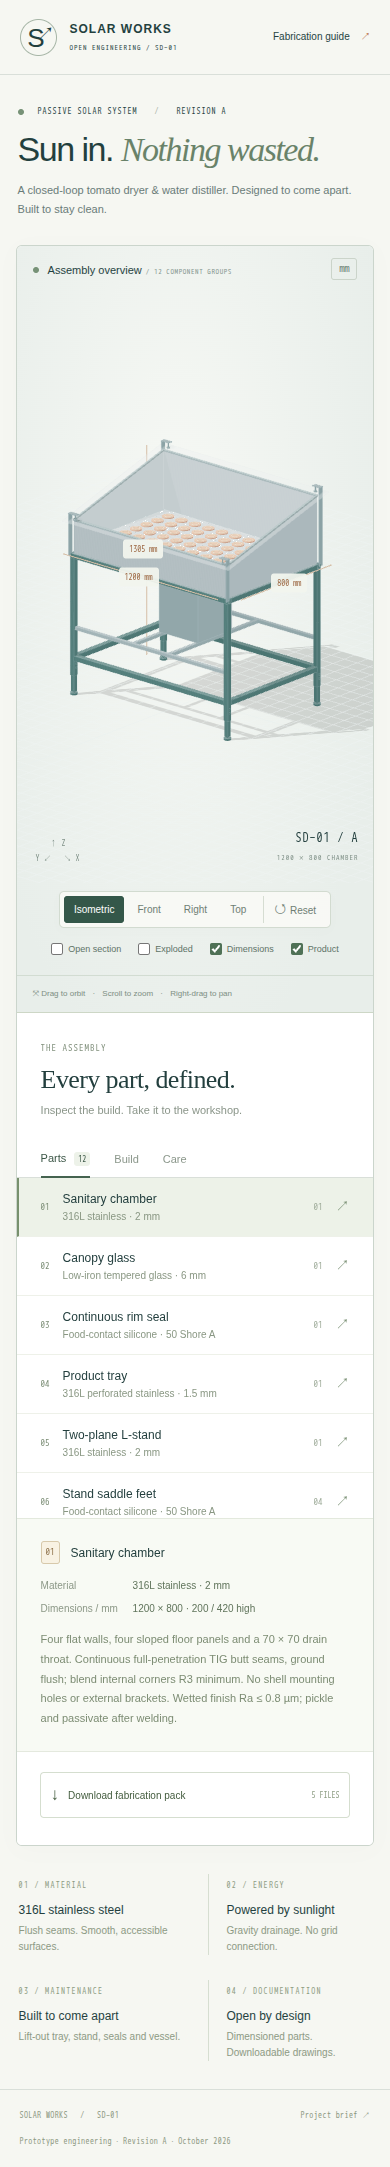
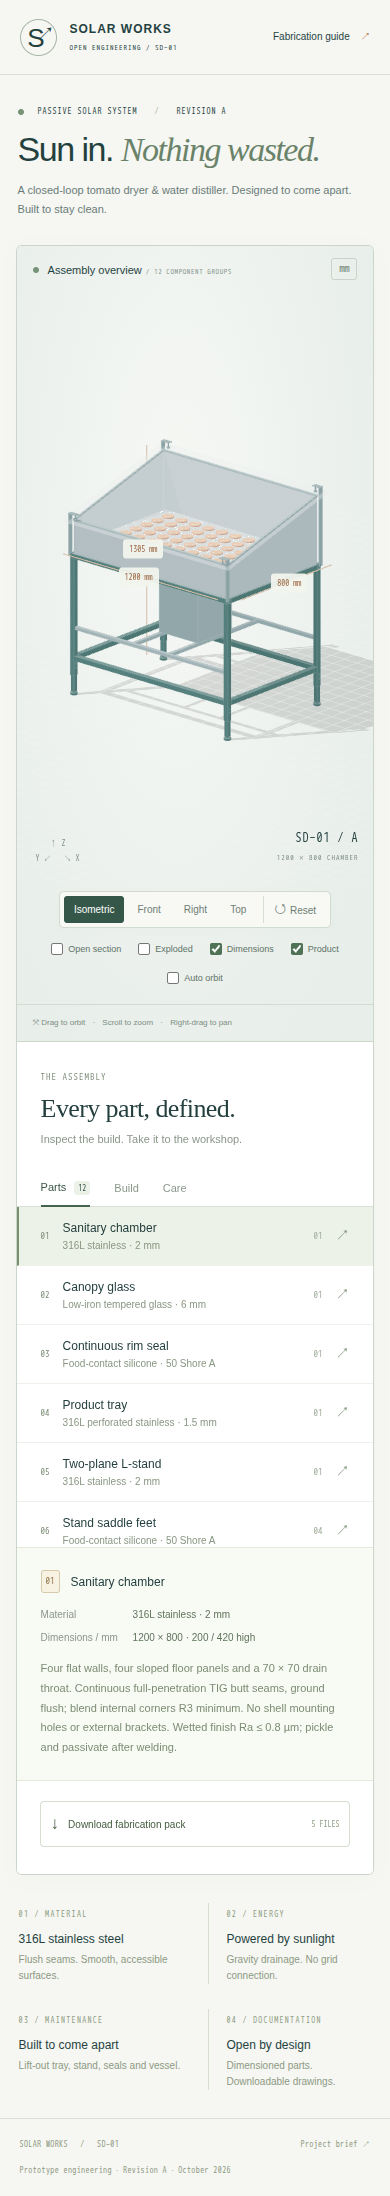
fix: retain showcase orbit and align fabrication details

diff --git a/assets/scene.js b/assets/scene.js
@@ -236,6 +236,7 @@ function createScene(host) {
   const controls = new T.OrbitControls(camera, renderer.domElement);
   controls.target.set(0, 700, 0);
   controls.enableDamping = true;
+  controls.autoRotateSpeed = 1;
   controls.minZoom = 0.45;
   controls.maxZoom = 5;
   controls.maxPolarAngle = Math.PI * 0.87;
@@ -440,6 +441,9 @@ export function createViewer(host, onSelect) {
     if (mode === 'dimensions') {
       showDimensions = value;
     }
+    if (mode === 'rotate') {
+      controls.autoRotate = value;
+    }
     if (mode === 'produce') {
       produce.visible = value;
     }
@@ -494,6 +498,7 @@ export function createViewer(host, onSelect) {
       section = false;
       setMode('dimensions', true);
       setMode('produce', true);
+      setMode('rotate', false);
       highlight.visible = false;
       view('iso');
     },

diff --git a/assets/app.js b/assets/app.js
@@ -112,7 +112,13 @@ function configureViewer() {
       trace('view', button.dataset.view);
     })
   );
-  for (const mode of ['section', 'explode', 'dimensions', 'produce']) {
+  for (const mode of [
+    'section',
+    'explode',
+    'dimensions',
+    'produce',
+    'rotate',
+  ]) {
     $(`#${mode}`).addEventListener('change', (event) => {
       viewer?.setMode(mode, event.target.checked);
       $('#view-title').textContent = $('#explode').checked
@@ -129,6 +135,7 @@ function configureViewer() {
     $('#explode').checked = false;
     $('#dimensions').checked = true;
     $('#produce').checked = true;
+    $('#rotate').checked = false;
     $('#view-title').textContent = 'Assembly overview';
     document
       .querySelectorAll('[data-view]')

diff --git a/tests/blueprint.test.js b/tests/blueprint.test.js
@@ -111,6 +111,13 @@ describe('shared assembly geometry and public artifact', () => {
         drain.position[1] - drain.length / 2 + 15
     ).toBe(true);
   });
+  it('fits all eight cage locking pins through the specified M8 drillings', () => {
+    const pins = assembly().filter(
+      (s) => s.part === '08' && s.type === 'tube' && s.length === 40
+    );
+    expect(pins.length).toBe(8);
+    expect(pins.every((p) => p.outer === 8 && p.outer < 8.5)).toBe(true);
+  });
   it('exports developed panels with the actual sloping edge lengths', () => {
     const floors = cutList().filter((c) => c.name.startsWith('Floor'));
     expect(floors.length).toBe(4);

diff --git a/assets/design.js b/assets/design.js
@@ -173,7 +173,7 @@ export const parts = [
     size: '300 × 300 shelf + 3 × 300 × 300 shields',
     group: 'cage',
     process:
-      'Shelf top Z430; removable 20 × 20 × 2 cage-only angle supports. Three detachable flat shields shade vessel from front and sides while leaving rear service access. Four M6 bolts per shield attach to cage; all penetrations outside chamber.',
+      'Shelf top Z430; 20 × 20 × 2 SHS bearers with removable cage-only brackets. Three detachable flat shields shade vessel from front and sides while leaving rear service access. Four M6 bolts per shield attach to cage; all penetrations outside chamber.',
   },
 ];
 

diff --git a/index.html b/index.html
@@ -108,6 +108,10 @@
               ><input id="produce" type="checkbox" checked /><span
                 >Product</span
               ></label
+            ><label
+              ><input id="rotate" type="checkbox" /><span
+                >Auto orbit</span
+              ></label
             >
           </div>
           <div class="viewer-footer">

diff --git a/assets/assembly.js b/assets/assembly.js
@@ -108,7 +108,7 @@ function addExoskeleton({ add, box, tube }) {
       add('08', 'shs', { size: [25, 500, 25], position: [x, 270, z], wall: 2 });
       for (const y of [170, 195]) {
         add('08', 'tube', {
-          outer: 12,
+          outer: 8,
           inner: 0,
           length: 40,
           position: [x, y, z],

diff --git a/docs/fabrication.md b/docs/fabrication.md
@@ -14,7 +14,7 @@ Workshop coordinates: X is width, Y is depth (positive toward front), Z is heigh
 | ------------------------------------ | ------------------------------------------------------- |
 | Chamber outer width × depth          | 1200 × 800                                              |
 | Flat front / rear walls              | 1200 × 202 / 1200 × 422 blanks, 2 thick                 |
-| Side wall blanks, qty 2              | 796 long; 203.1 front / 420.9 rear, 2 thick             |
+| Side wall blanks, qty 2              | 796 long; 202.6 front / 421.5 rear, 2 thick             |
 | Collector perimeter / throat surface | Z885 / Z860                                             |
 | Throat plate                         | 70 × 70 × 2, central Ø50.8 cutout                       |
 | Sloped collector panels              | Four trapezoids; developed profiles in DXF; 25 fall     |
@@ -109,4 +109,4 @@ Serve the repository with any static HTTP server, for example `python3 -m http.s
 
 The `example-app.yml` workflow validates and stages the website for PRs, including native tests and Chromium interactions, and uploads artifacts without deploying a PR. After an authorized merge, its main-branch Pages job deploys `dist/site`. Set repository **Settings → Pages → Source → GitHub Actions** first. PR checks warn when Pages is disabled; the main branch fails with the exact setting to change. Do not run the deployment or merge as part of PR preparation. The expected published URL is `https://konard.github.io/solar-distilling-dryer/`; it is not evidence that deployment has already occurred.
 
-Browser verification is in `experiments/blueprint-browser.mjs`, reused by the Playwright MCP session and `experiments/run-blueprint-browser.mjs` in CI. The browser suite exercises isometric/front/right/top views, orbit/pan/zoom, section/explosion/reset, BOM highlighting, keyboard tabs, all five downloads, three viewport widths and absence of external asset requests. OpenSCAD CI compiles the full assembly and renders the chamber, stand, drain and vessel to STL, rejecting warnings and non-manifold solids. Native tests cover architecture, fabrication data, primitive winding and the public artifact. Existing pipeline acceptance assertions remain enabled.
+The original automatic showcase rotation is retained as an optional Auto orbit control, off initially for stable inspection. Browser verification is in `experiments/blueprint-browser.mjs`, reused by the Playwright MCP session and `experiments/run-blueprint-browser.mjs` in CI. The browser suite exercises isometric/front/right/top views, orbit/pan/zoom, section/explosion/reset, BOM highlighting, keyboard tabs, all five downloads, three viewport widths and absence of external asset requests. OpenSCAD CI compiles the full assembly and renders the chamber, stand, drain and vessel to STL, rejecting warnings and non-manifold solids. Native tests cover architecture, fabrication data, primitive winding and the public artifact. Existing pipeline acceptance assertions remain enabled.

diff --git a/experiments/issue-1-plan.md b/experiments/issue-1-plan.md
@@ -14,10 +14,12 @@ Objective: implement and verify every requirement of issue #1 and its comments i
 10. [ ] Fetch/merge latest default branch, review the whole diff, commit atomic steps and validate exact candidate revision. Only this coordinator pushes, once per batch, only to issue-1-5e79aea78387.
 11. [ ] Update PR title/body with requirement/evidence inventory, reproduction, assumptions and committed before/after screenshots. Preserve `Fixes #1`.
 12. [ ] List CI runs with timestamps and head SHAs; preserve every failed same-revision workflow log, inspect errors with line numbers and batch all fixes before another push. Wait for all required same-revision CI.
-13. [x] Review gh pr diff, confirm no requested behavior removed, clean working tree, default branch included, all checks passing; mark PR #2 ready. Never merge/release/deploy as part of this task.
+13. [ ] Review gh pr diff, confirm no requested behavior removed, clean working tree, default branch included, all checks passing; mark PR #2 ready. Never merge/release/deploy as part of this task.
 
-Evidence collected locally: baseline and final desktop/mobile screenshots; eleven native blueprint assertions; Chromium orbit/pan/zoom, camera views, geometry/BOM selection, section/explode/reset, keyboard tabs, five completed downloads, responsive widths and fallback without 3D; OpenSCAD full CSG plus manifold chamber/stand/drain/vessel STL. DXF profiles also import/extrude in OpenSCAD (its parser ignores standard TEXT labels).
+Evidence collected locally: baseline and final desktop/mobile screenshots; twelve native blueprint tests; Chromium orbit/pan/zoom, camera views, geometry/BOM selection, section/explode/reset, keyboard tabs, five completed downloads, responsive widths and fallback without 3D; OpenSCAD full CSG plus manifold chamber/stand/drain/vessel STL. DXF profiles also import/extrude in OpenSCAD (its parser ignores standard TEXT labels).
 
 Repository Pages API returned HTTP 404 on 2026-10-29. Public launch remains an external prerequisite: enable GitHub Actions as Pages source and authorize the separate merge/deployment. Keep this criterion unfinished until deployment evidence exists. Physical manufacturing/process commissioning is documented rather than claimed as performed.
 
 Local full-suite results: Node 925/925, Bun 925/925, Deno 924 passed and one existing runtime-specific ignored test. Lint/format/duplication, syntax, file limits, docs, workflow policy, actionlint and focused architecture gates pass. The Git comparison guards run after the commit so they inspect the candidate rather than unrelated existing changeset fragments.
+
+Final refinement: retained optional automatic orbit and added a reproducing regression for eight 8 mm pins fitting the specified Ø8.5 drillings. Focused native tests pass in Node, Bun and Deno; the preceding full-suite counts predate this additional regression.
